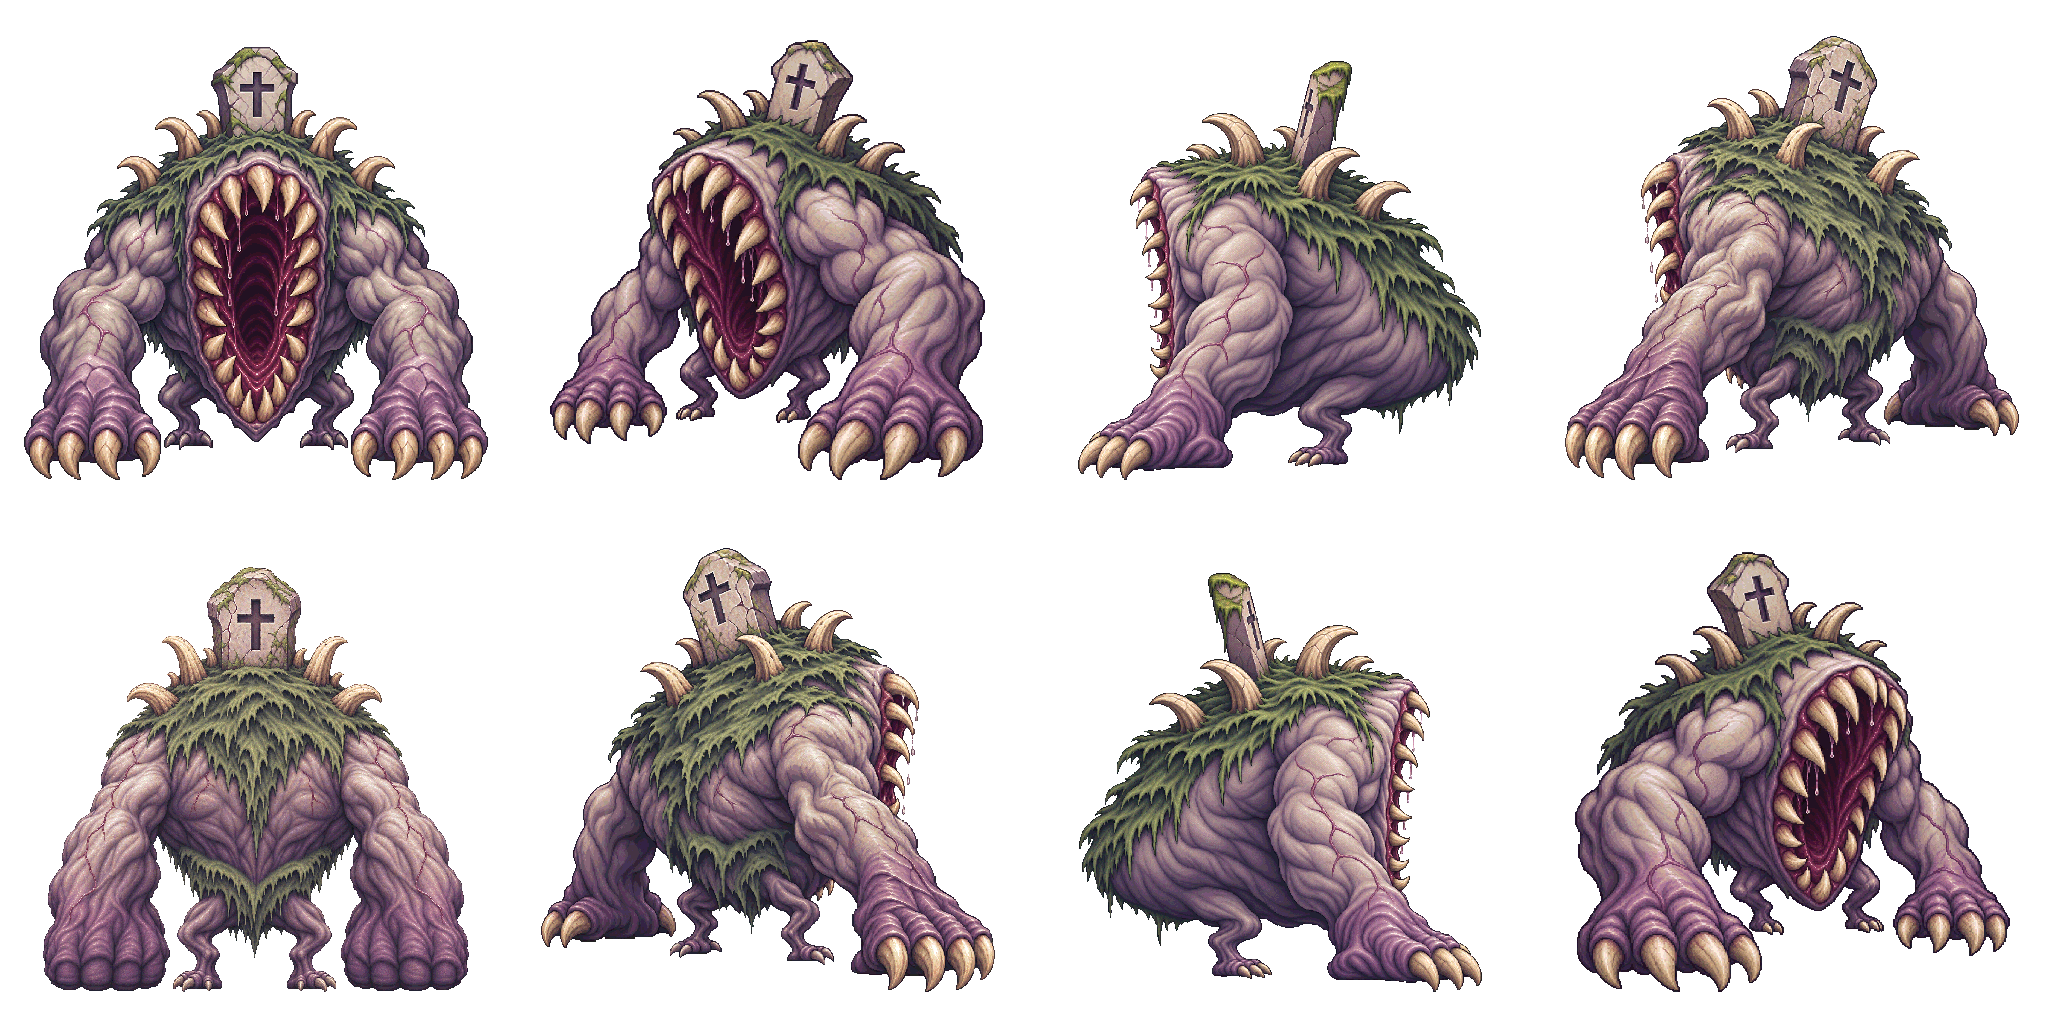
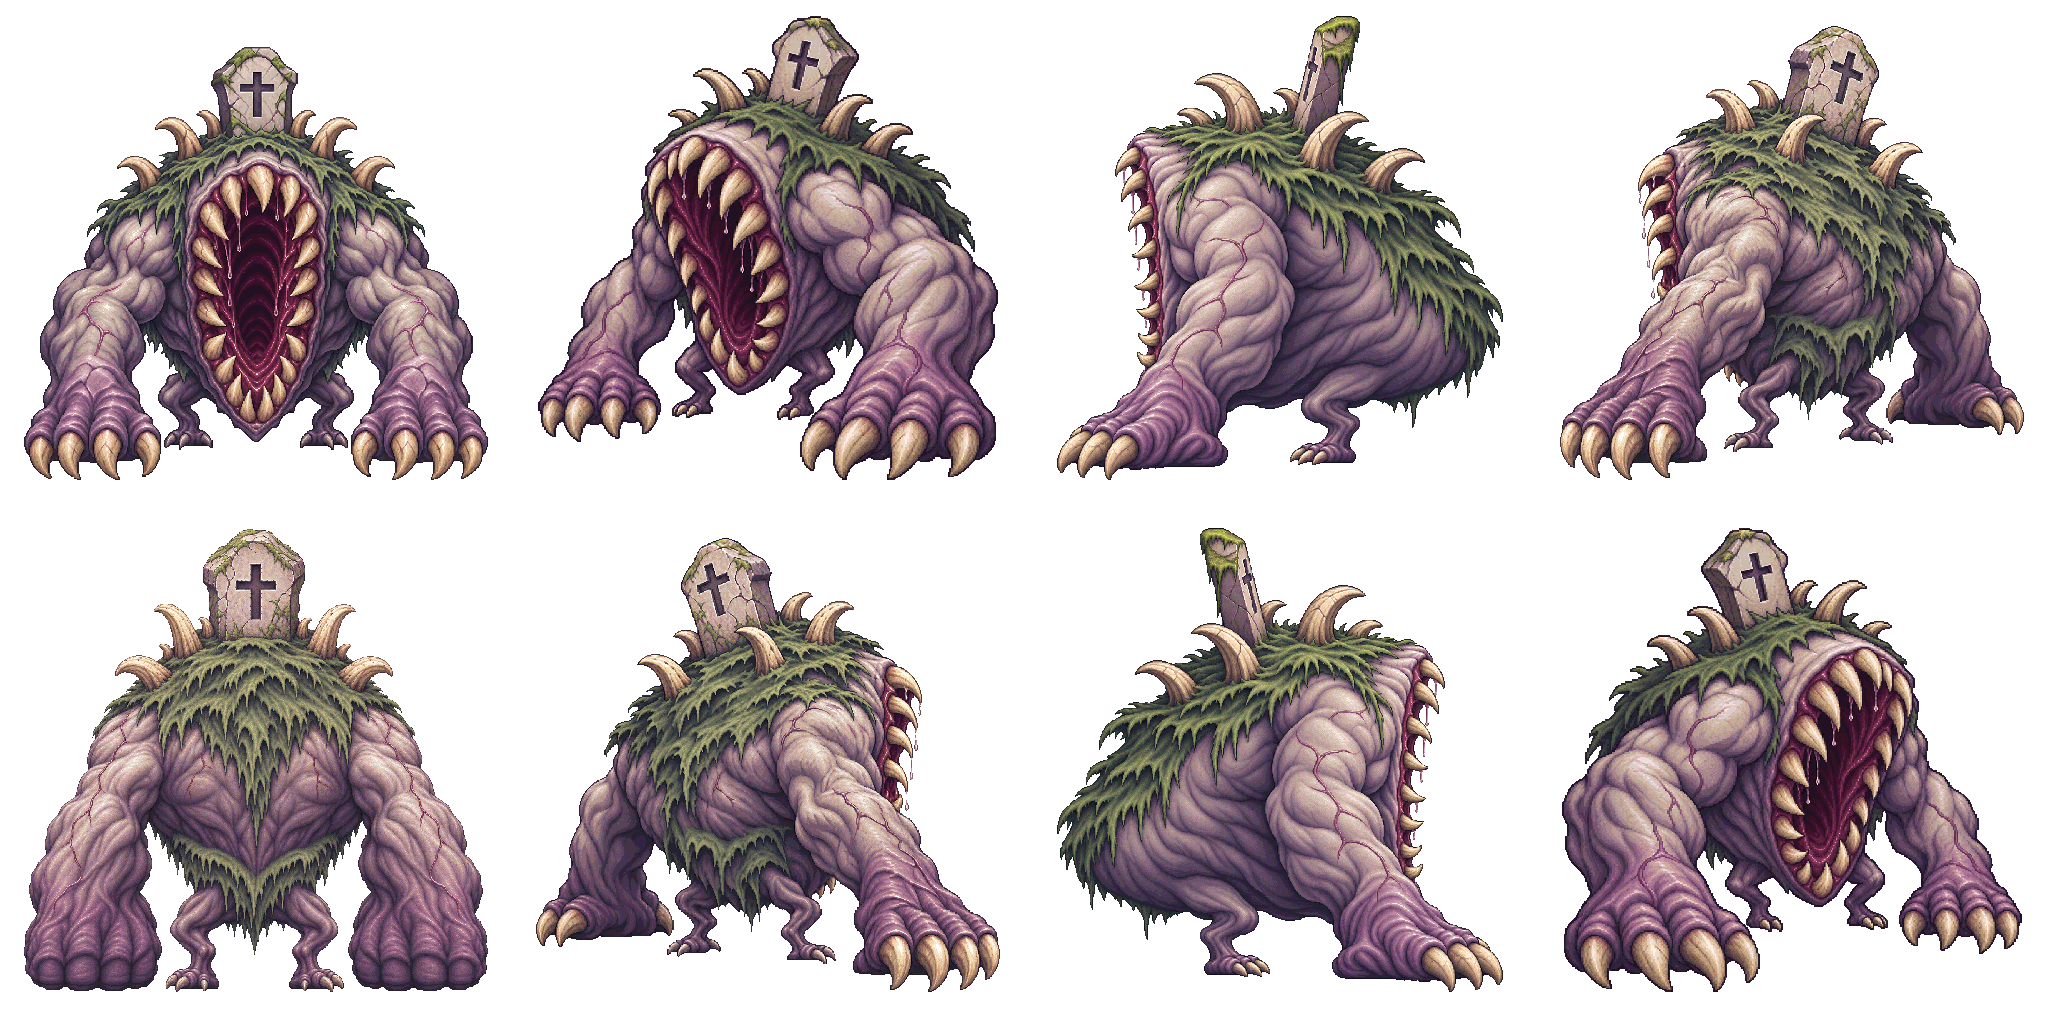
Publish pre-PixelLab concept bundle: grave_devourer

diff --git a/리포트/projects/dotaction/posts/2026-11-20-result-20261120045249131-v1.0.0.md b/리포트/projects/dotaction/posts/2026-11-20-result-20261120045249131-v1.0.0.md
@@ -1,0 +1,59 @@
+---
+title: 무덤 포식자 · 대형512칸 방향 원본 재제작
+date: 2026-11-20T04:52:49.131Z
+version: v1.0.0
+status: 검증 대기
+state: verification
+project: dotaction
+type: 작업 결과
+report_kind: result
+category: 작업 결과
+summary: 덩치에 비해 축소된 방향 시안을 한 칸512 기준으로 신규 재제작했습니다.
+format: tracefolio-v2
+priority: normal
+severity: normal
+reporter: Codex
+assignee: Codex
+payload: ../assets/submissions/2026-11-20-result-20261120045249131-v1.0.0.json
+---
+
+## 작업 결과
+
+무덤 포식자의5방향을 각각 새로 그려512칸8방향 시트로 재구성했습니다. 기존64칸 확대가 아닙니다. 일러스트·T포즈는 기존 선택본을 유지합니다. 전체 최신화는 진행 중입니다.
+
+![일러스트](../assets/pre-pixellab-grave_devourer-512-20261120/illustration.webp)
+
+![정후면 몸체와 분리 장비](../assets/pre-pixellab-grave_devourer-512-20261120/tpose.webp)
+
+![512칸8방향 · 전체2048×1024](../assets/pre-pixellab-grave_devourer-512-20261120/directions.webp)
+
+## 변경 내용
+
+### 적용 내용
+
+Grotesque grave devourer beast, a huge tooth-lined vertical maw replacing its entire torso, two massive forearms dragging the body and tiny rear legs, bone grave-marker protruding from hunched back. Very wide gorilla-like silhouette, not a dog.
+
+일러스트 자세: Low devouring leap preparation, enormous existing maw gaping directly toward viewer, back arched
+
+일러스트·프로필·몸체 정후면·분리 장비·방향 원본·128 패딩본·대기 참조·출처/프롬프트/해시를 art/characters/무덤포식자에 저장했습니다. 문서 아카이브도 같은 시안으로 연결했습니다. 게임 모션·공격·FX는 교체하지 않았습니다.
+
+### 대화 기록
+사용자 요청: 누락된 캐릭터/몬스터를 PixelLab 전 단계까지 최신화하고 한 종씩 보고. 몬스터 일러스트는 다양한 자세로 위협적이고 무섭게 제작.
+
+하단의 입·앞팔·등·뼈는 해부학적 상세 참조입니다. 탈착 장비나 실제 분리 리그로 제작한 결과가 아닙니다.
+
+후속 요청: 덩치에 비해 작아진 몬스터는512로 늘려 다시 제작. 종별 대형 규격 허용.5방향 각각 ImageGen 신규 제작→512칸 픽셀 파생→3정확한 반전→전체2048×1024.512 대기 참조를 제공하며 이전64/128 방향 파생과 제작 원본은 ZIP에 보존했습니다.
+
+## 검증
+
+실제 신규5방향 원본과512칸 결과 외형 확인. 전체2048×1024, 칸512×512, NE=NW/E=W/SE=SW 정확한 바이트 반전 확인. 과거 파일 ZIP 보관 후 해시 대조. 기존64칸 이미지를 확대하지 않았습니다. 선택 픽셀 파생만 정규화하고 문서 빌드·게시용 WebP 재열기 확인. PixelLab 호출0회, 게임 연결/실행/회귀 테스트 미실행.
+
+## 남은 사항
+
+최종 사용자 미감 승인 대기. PixelLab/리그 파츠/모션·FX·음향 신규 제작과 게임 연결은 이번 요청 범위 밖입니다. 전체 최신화의 나머지 대상은 진행 중입니다. SkillEvaluator는 스킬 변경이 없어 비대상, CLI-Anything은 GUI 조작 없이 ImageGen 및 기존 파일 API를 사용하여 비대상. 대형512칸 예외를 프로젝트 제작 지침과 문서에 반영했습니다. 업데이트 원격 확인 latest2026-11-20-011, 새 채팅 지침의 개별 시안 직접 표시 적용.
+
+## 작업 시간
+
+- 제안 시간: 512칸 대형 몬스터18종 재제작/제작으로 전체 예상에 약60~100분 추가. 종별 원본5장 신규 제작·보관·문서·게시.
+- 실제로 완료된 시간: 이 종512 재제작·정리 29.4분. 시작 2026-11-20T13:21:12.308000+09:00, 저장 2026-11-20T13:50:35.342576+09:00 (Asia/Seoul). 배포 대기 별도.
+- XERJ: 미사용 — 지침에 따라 사용하지 않음. 파일 검색 rg, 기존 이미지와 데이터 대조.
